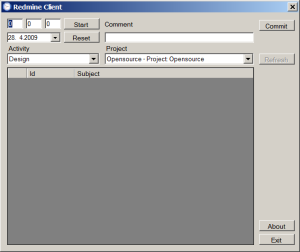
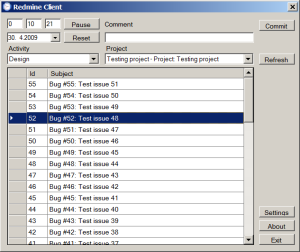
0.2

diff --git a/website/index.html b/website/index.html
@@ -38,9 +38,6 @@
 					<h2>
 						It's written in C# and runs on Microsoft .NET as well as Mono.
 					</h2>
-					<h2>	
-						The current version 0.1 works at least for the author and his Redmine 0.8.3 and is in no way bulletproof.
-					</h2>
 				</div>
 			</div>
 			<div id="menu">
@@ -58,7 +55,7 @@
 </div>
 <div class="content">
 	<div id="ad">
-		The Redmine Client version 0.1 was relesed on 2009-04-28. Althought it's more a proof of concept than real product it is able to do it's job when everything goes reasonably well. Feel free to give it a try.<br />
+		The Redmine Client version 0.2 was released on 2009-04-30. It brings a configuration dialog, bugfixes and improved stability and usability especially when running on Mono under Linux . Feel free to give it a try.<br />
 		<a href="http://sourceforge.net/project/showfiles.php?group_id=260707" title="Download Redmine Client"><b>Download Redmine Client Now!</b></a>
 	</div>
 	
